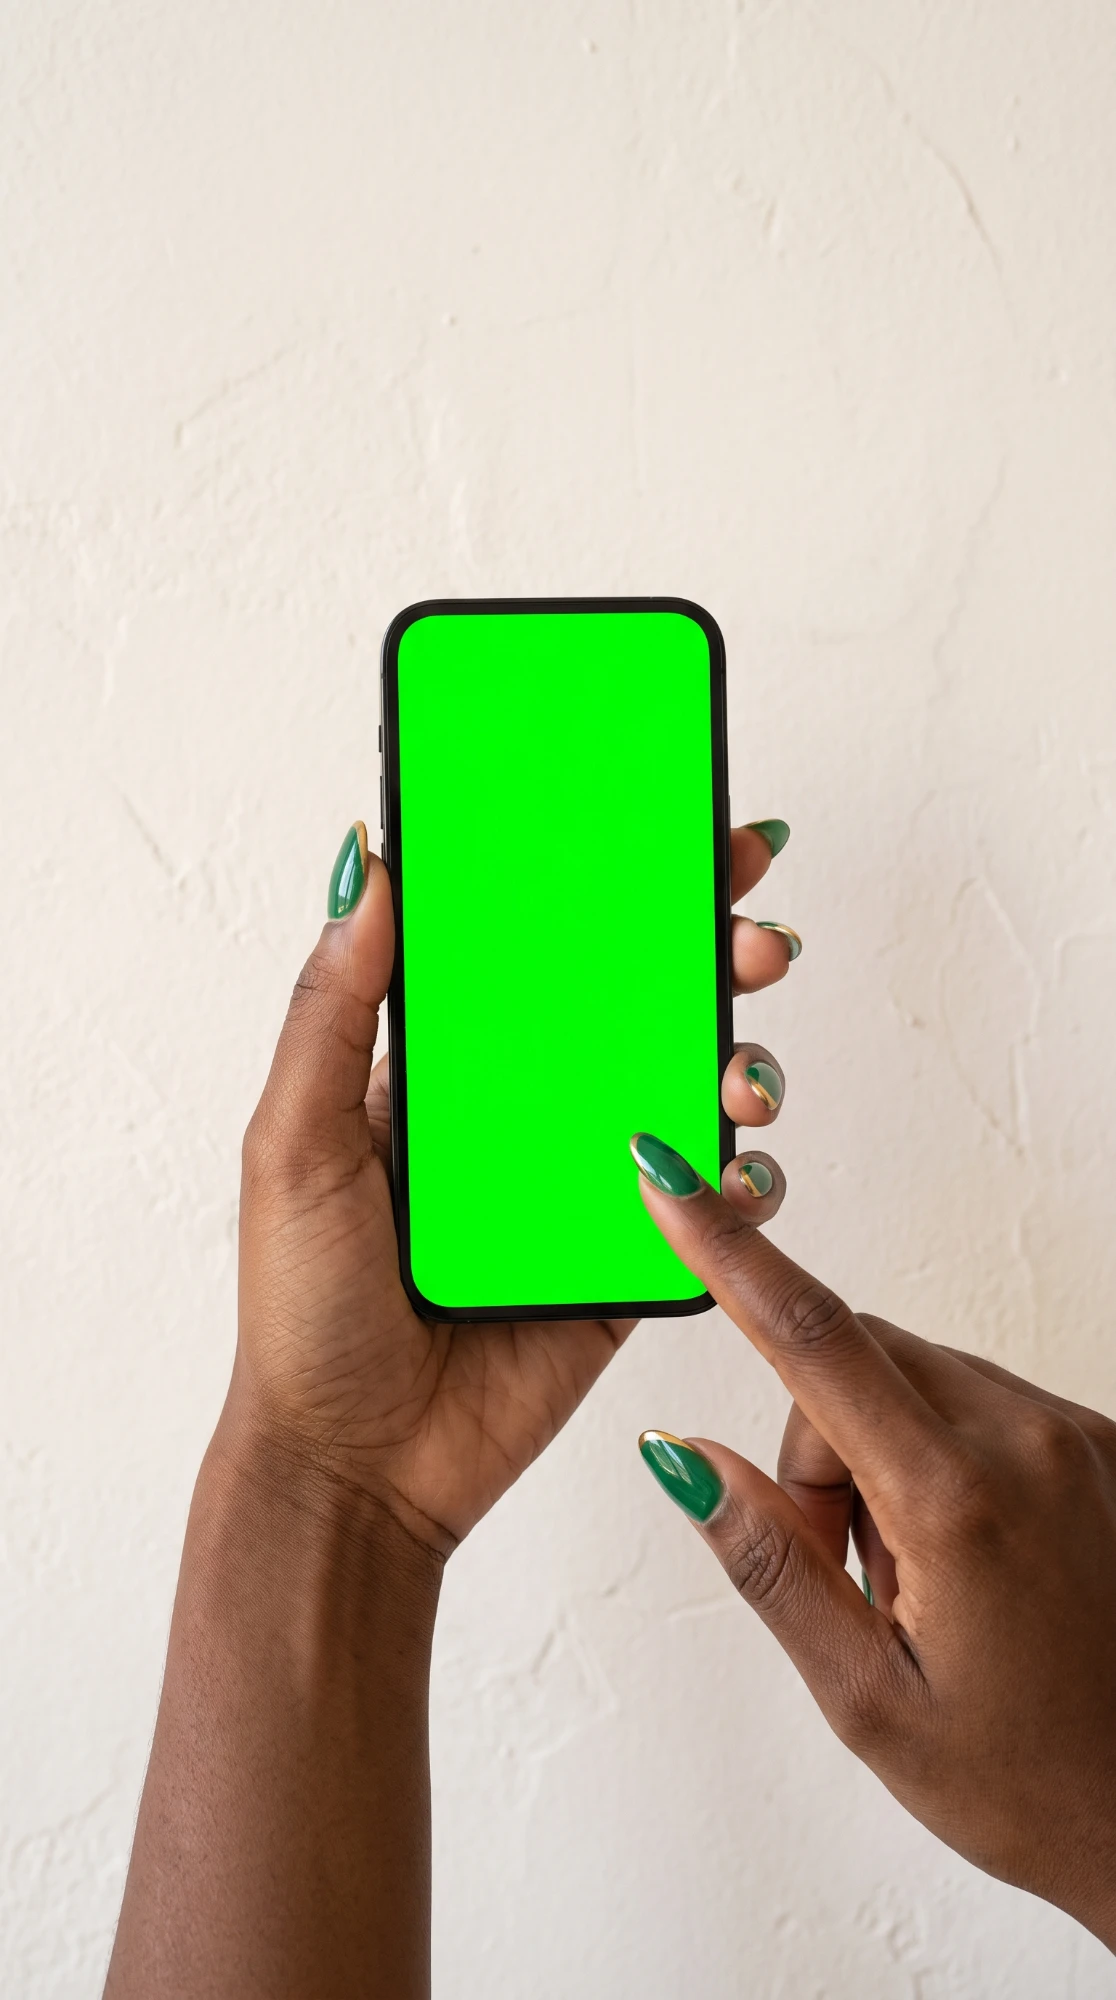
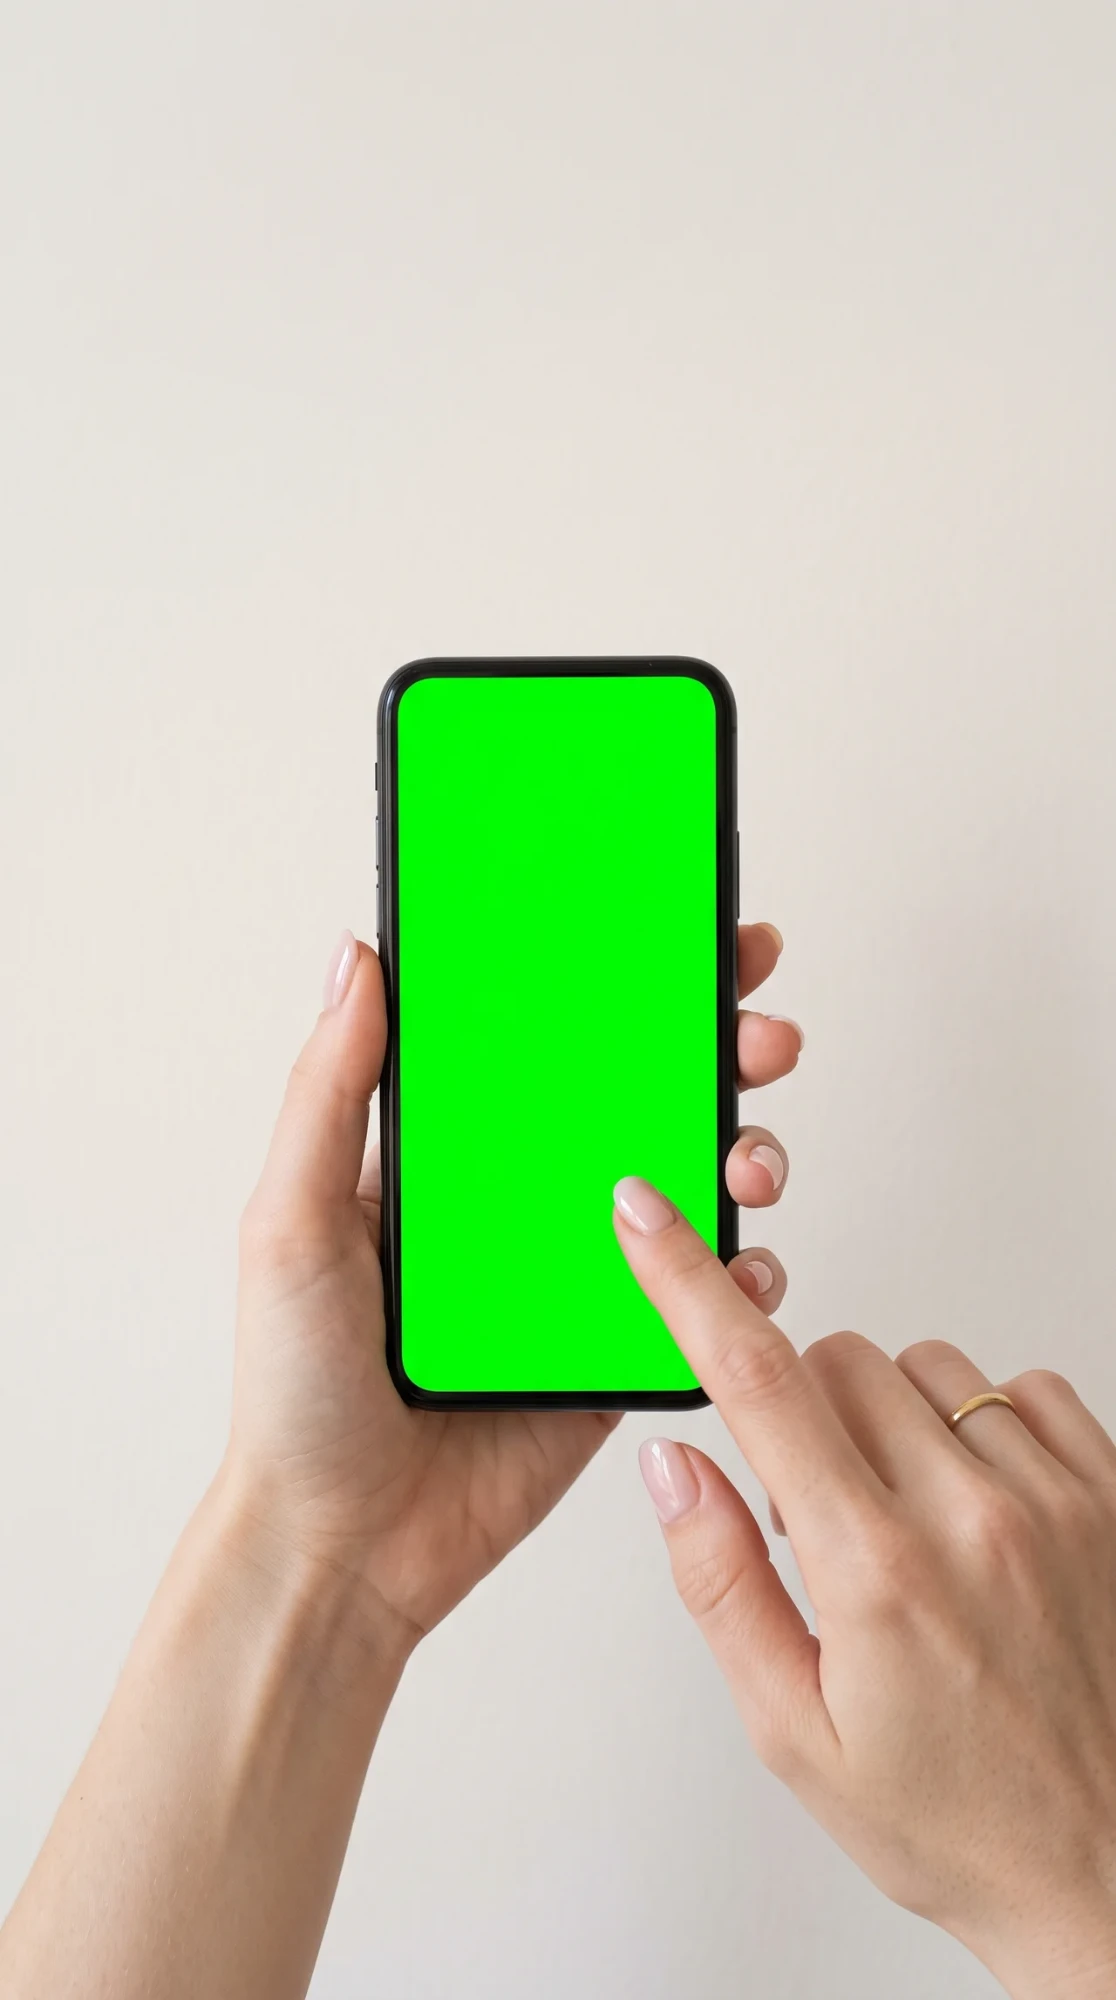
Swap fair-skin hand photos into App Store slides 3 and 5
Cut-out now uses a stricter wall test for fair skin, a RANSAC screen fit
for tilted and notched phones, and a luma matte at the screen edge. The
hands' drop shadow no longer falls on the screen.

Claude-Session: https://claude.ai/code/session_01XofwgYCTM7RBmbxY2V7k3B

Changed region(s): [[0.0, 0.279, 1.0, 1.0]]

diff --git a/video/appstore-iphone/stills/index.html b/video/appstore-iphone/stills/index.html
@@ -137,6 +137,7 @@ h1 .two::before{content:"";position:absolute;left:-6px;right:-8px;bottom:.05em;h
    onto the keyed screen with a homography so it sits at the photo's own angle ── */
 .pht{position:absolute;left:0;top:0;transform-origin:0 0}
 .pht > img.cutimg{position:absolute;left:0;top:0;width:1116px;height:2000px;filter:drop-shadow(0 34px 40px rgba(30,30,60,.22)) drop-shadow(0 8px 12px rgba(30,30,60,.12))}
+.pht > img.cutimg.flat{filter:none}
 .pscr{position:absolute;left:0;top:0;transform-origin:0 0;overflow:hidden;background:#fff}
 .pscr .in{position:absolute;inset:0;filter:blur(.5px) contrast(.95) brightness(.97) saturate(.95)}
 .pscr .st{height:44px;position:relative;background:#fff}
@@ -367,11 +368,15 @@ function photoSlide(n) {
   const hq = (Math.hypot(Q.bl[0]-Q.tl[0], Q.bl[1]-Q.tl[1]) + Math.hypot(Q.br[0]-Q.tr[0], Q.br[1]-Q.tr[1])) / 2;
   const CW = 400, CH = Math.round(CW * hq / wq);
   const M = homography(CW, CH, q);
+  /* the hands' drop shadow lifts them off the ground but must not fall on the screen: seen through a finger's soft
+     edge it is a dark dotted rim. So the shadow layer has the screen cut out of it, and a plain copy sits on top */
+  const hole = `path(evenodd,'M0 0H1116V2000H0Z M${q.map(p => p[0] + ' ' + p[1]).join(' L')}Z')`;
   return `<div class="pht" style="transform:translate(${ox.toFixed(1)}px,${oy.toFixed(1)}px) scale(${s.toFixed(4)})">
     <div class="pscr" style="width:${CW}px;height:${CH}px;transform:${M}"><div class="in">
       <div class="st"><div class="t">9:41</div><div class="r"><b style="height:6px"></b><b style="height:9px"></b><b style="height:12px"></b><b style="height:15px"></b><b class="bat"></b></div></div>
       <img src="${A(P.app)}" alt=""><div class="hm"></div></div><div class="lt"></div></div>
-    <img class="cutimg" src="assets/photo-${P.name}-cut.png" alt=""></div>`;
+    <img class="cutimg" src="assets/photo-${P.name}-cut.png" alt="" style="clip-path:${hole}">
+    <img class="cutimg flat" src="assets/photo-${P.name}-cut.png" alt=""></div>`;
 }
 const [n, v, m] = (location.hash.slice(1) || '1').split('-').map(Number);
 const fr = document.getElementById('f');

diff --git a/video/appstore-iphone/stills/assets/photo-quads.js b/video/appstore-iphone/stills/assets/photo-quads.js
@@ -1,1 +1,1 @@
-window.PHOTOQ = {"links": {"w": 1116, "h": 2000, "quad": {"tl": [385.2, 748.6], "tr": [733.0, 749.2], "br": [733.0, 1542.3], "bl": [384.7, 1540.3]}}, "pos": {"w": 1116, "h": 2000, "quad": {"tl": [396.9, 615.2], "tr": [708.1, 612.9], "br": [720.7, 1298.3], "bl": [411.8, 1307.1]}}, "reports": {"w": 1116, "h": 2000, "quad": {"tl": [429.4, 542.5], "tr": [816.6, 574.1], "br": [720.1, 1442.3], "bl": [335.8, 1400.2]}}};
+window.PHOTOQ = {"links": {"w": 1116, "h": 2000, "quad": {"tl": [385.4, 748.5], "tr": [733.0, 749.2], "br": [733.0, 1542.1], "bl": [384.2, 1540.5]}}, "pos": {"w": 1116, "h": 2000, "quad": {"tl": [397.8, 678.5], "tr": [714.6, 677.0], "br": [716.1, 1390.0], "bl": [402.5, 1390.0]}}, "reports": {"w": 1116, "h": 2000, "quad": {"tl": [366.9, 551.4], "tr": [716.5, 512.9], "br": [834.1, 1338.6], "bl": [491.6, 1399.6]}}};

diff --git a/video/appstore-iphone/stills/cut-photo.py b/video/appstore-iphone/stills/cut-photo.py
@@ -16,24 +16,28 @@ G = (g > 170) & (r < 130) & (b < 130) & (gx > 80)
 ys, xs = np.where(G)
 x0, x1, y0, y1 = xs.min(), xs.max(), ys.min(), ys.max()
 
-def fit(pts):                      # least squares, then drop points more than 4px off and refit (fingers, corners)
-    p = np.array(pts, float)
-    for _ in range(3):
-        A = np.vstack([p[:,0], np.ones(len(p))]).T
-        m, c = np.linalg.lstsq(A, p[:,1], rcond=None)[0]
-        res = np.abs(p[:,1] - (m * p[:,0] + c)); keep = res < 4
-        if keep.all() or keep.sum() < 20: break
-        p = p[keep]
-    return m, c
-mid = lambda lo, hi: range(int(lo + (hi - lo) * .2), int(lo + (hi - lo) * .8))
-# a finger or thumb over the screen can only pull an edge inward, so keep the outermost half of each edge's samples
+def fit(pts):                      # RANSAC: the line through the most samples within 2px, then least squares on those
+    p = np.array(pts, float); rng = np.random.default_rng(7); best = None
+    for _ in range(600):              # (a thumb, a fingertip or a notch is a minority off the line, never on it)
+        i, j = rng.choice(len(p), 2, replace=False)
+        if p[i,0] == p[j,0]: continue
+        m = (p[j,1] - p[i,1]) / (p[j,0] - p[i,0]); c = p[i,1] - m * p[i,0]
+        inl = np.abs(p[:,1] - (m * p[:,0] + c)) < 2
+        if best is None or inl.sum() > best.sum(): best = inl
+    q = p[best]; A = np.vstack([q[:,0], np.ones(len(q))]).T
+    return tuple(np.linalg.lstsq(A, q[:,1], rcond=None)[0])
+# sample each edge along its own span: rows between the top and bottom of the green for the sides, and for the top
+# and bottom the columns of the green's first and last 40 rows, so a tilted phone's side is never read as its top
+mid = lambda lo, hi: range(int(lo + (hi - lo) * .08), int(lo + (hi - lo) * .92))
+# a finger or thumb over the screen can only pull an edge inward, so keep the outermost samples of each edge
 def outer(pts, keep_low):
-    v = np.array([q[1] for q in pts]); cut = np.percentile(v, 55 if keep_low else 45)
+    v = np.array([q[1] for q in pts]); cut = np.percentile(v, 60 if keep_low else 40)
     return [q for q in pts if (q[1] <= cut if keep_low else q[1] >= cut)]
+tx = np.where(G[y0:y0+40].any(0))[0]; bx = np.where(G[y1-40:y1+1].any(0))[0]
 left  = fit(outer([(y, np.where(G[y])[0].min()) for y in mid(y0, y1) if G[y].any()], True))        # x = m*y + c
 right = fit(outer([(y, np.where(G[y])[0].max()) for y in mid(y0, y1) if G[y].any()], False))
-top   = fit(outer([(x, np.where(G[:,x])[0].min()) for x in mid(x0, x1) if G[:,x].any()], True))    # y = m*x + c
-bot   = fit(outer([(x, np.where(G[:,x])[0].max()) for x in mid(x0, x1) if G[:,x].any()], False))
+top   = fit(outer([(x, np.where(G[:,x])[0].min()) for x in mid(tx.min(), tx.max()) if G[:,x].any()], True))    # y = m*x + c
+bot   = fit(outer([(x, np.where(G[:,x])[0].max()) for x in mid(bx.min(), bx.max()) if G[:,x].any()], False))
 def meet(v, h):                    # v: x = mv*y + cv ; h: y = mh*x + ch
     mv, cv = v; mh, ch = h; y = (mh * cv + ch) / (1 - mh * mv); return [round(mv * y + cv, 1), round(y, 1)]
 quad = { 'tl': meet(left, top), 'tr': meet(right, top), 'br': meet(right, bot), 'bl': meet(left, bot) }
@@ -41,12 +45,34 @@ quad = { 'tl': meet(left, top), 'tr': meet(right, top), 'br': meet(right, bot), 
 # ── the wall: flood in from the frame edge over pale, warm, unsaturated pixels ──
 mx, mn = a.max(2), a.min(2); sat = (mx - mn) / np.maximum(mx, 1)
 wallish = (mx > 140) & (sat < 0.30) & (b <= g + 4) & (r >= g - 3)   # includes the wall in the hand's shadow
+# fair skin passes that test (sat .18–.28), so on the fair-skin photos the wall is held to its own colour: nearly
+# grey (sat ≤ .12, wall .03–.11) and only faintly warm (r − b < 28; wall 8–22, skin 40+)
+if name in ('pos', 'reports'):
+    wallish = (mx > 120) & (sat < 0.12) & (r - b < 28) & (b <= g + 4) & (r >= g - 3)
 # per photo: the deeper shadow the hand throws on the wall, a looser test only where it falls
-# (fingers there measure mx ≤ 115, sat ≥ .43; the shadowed wall mx 150–171, sat .28–.35)
-SHADE = { 'reports': [(1000, 1700, 760, W), (1440, 1800, 600, W)] }
+# per photo: the deeper shadow the hand throws on the wall, a looser test only where it falls. On the fair-skin
+# reports photo the shadow is the skin's own hue (r:g:b 1 : .88 : .77 against the skin's 1 : .87 : .79), so it is
+# told apart by its softness: the flood may not cross a sharp step in brightness, which the hand's edge always is
+SHADE = { 'reports': [(560, 880, 740, W), (880, 1300, 935, W), (1300, 2000, 740, W), (1360, 2000, 560, 740)] }
+# (the three fingertips, x 740–935 between y 880 and 1300, are left out: their undersides are as soft as the shadow.
+# There the fingers are told apart by colour instead: the skin is pinker, r − g 58–66 even in its own shade, where
+# the shadow between them is r − g 22–31)
+TIPS = { 'reports': [(880, 1300, 740, 935)] }
 for ya, yb, xa, xb in SHADE.get(name, []):
     shade = np.zeros((H, W), bool); shade[ya:yb, xa:xb] = True
-    wallish |= shade & (mx > 125) & (sat < 0.40) & (b <= g + 4) & (r >= g - 3)
+    Lm = a.mean(2); Ls = (Lm[:-2,1:-1] + Lm[2:,1:-1] + Lm[1:-1,:-2] + Lm[1:-1,2:] + 4 * Lm[1:-1,1:-1]) / 8
+    grad = np.zeros((H, W)); gy_ = np.abs(Ls[2:,1:-1] - Ls[:-2,1:-1]); gx_ = np.abs(Ls[1:-1,2:] - Ls[1:-1,:-2])
+    grad[2:-2,2:-2] = np.maximum(gy_, gx_) / 2
+    wallish |= shade & (mx > 120) & (sat < 0.34) & (b <= g + 4) & (r >= g - 3) & (grad < 4)
+# and the darkest of it, tucked under the phone, where it is too dark to be
+# told apart by softness: one small box that holds only shadow (the palm beside them measures sat ≥ .47)
+for ya, yb, xa, xb in TIPS.get(name, []):
+    tips = np.zeros((H, W), bool); tips[ya:yb, xa:xb] = True
+    wallish |= tips & (mx > 110) & (mx < 205) & (r - g < 42) & (g - b > 10) & (b <= g + 4)
+DEEP = { 'reports': [(1385, 1470, 606, 760, .40, 160)] }
+for ya, yb, xa, xb, s_, m_ in DEEP.get(name, []):
+    deep = np.zeros((H, W), bool); deep[ya:yb, xa:xb] = True
+    wallish |= deep & (mx > 100) & (mx < m_) & (sat < s_) & (b <= g + 4)
 def flood(seed, allow):
     m = seed & allow
     for _ in range(8000):
@@ -65,15 +91,30 @@ def box(m, k):
     m = m.astype(float); p = k // 2
     c = np.cumsum(np.pad(m, ((p+1, p), (0, 0)), mode='edge'), 0); m = (c[k:] - c[:-k]) / k
     c = np.cumsum(np.pad(m, ((0, 0), (p+1, p)), mode='edge'), 1); return (c[:, k:] - c[:, :-k]) / k
-alpha = np.clip((box(subj, 3) - 0.5) * 2, 0, 1); alpha = box(alpha, 3)
+# a 7px mean cut at half rounds the stair-steps the flood leaves along a soft shadow into a smooth contour
+alpha = np.clip((box(subj, 7) - 0.5) * 3 + 0.5, 0, 1); alpha = box(alpha, 3)
 
-# key the screen, softly at its edge, and pull the green out of the bezel's rim (dark, low-blue pixels near the key)
-key = np.clip((g - 150) / 40, 0, 1) * np.clip((gx - 60) / 40, 0, 1)
-near = box(G, 9) > 0
-key = np.where(near, key, 0)
-alpha = alpha * (1 - key)
-rim = near & (gx > 8) & (b < r + 12)          # spill (skin or bezel mixed with green) has little blue; the emerald nails have plenty
-g2 = np.where(rim, np.minimum(g, (r + b) / 2 + 6), g)
+# key the screen with a luma matte. The webp stores colour at half resolution, so at a finger's edge over the green
+# the colour comes in 2px blocks (a green tint and a stair-stepped key) while brightness is sharp. So, in a 3px
+# band around the green: take each pixel's colour from the clean finger, nail or bezel beside it (bled outward a
+# pixel at a time), and its opacity from where its brightness sits between the screen's and that colour's
+Y = .299 * r + .587 * g + .114 * b
+Yg = np.median(Y[G])
+band = (box(G, 7) > 0) & ~(box(G, 5) > .999)       # within 3px of the green, but not 2px deep inside it
+known = (~(box(G, 7) > 0)).astype(float)
+for _ in range(10):
+    n = box(known, 3); fill = band & (n > 0) & (known == 0)
+    if not fill.any(): break
+    r, g, b = [np.where(fill, box(c * known, 3) / np.maximum(n, 1e-6), c) for c in (r, g, b)]
+    known = np.where(fill, 1., known)
+Yf = .299 * r + .587 * g + .114 * b
+d_ = Yf - Yg
+luma = np.clip((Y - Yg) / np.where(np.abs(d_) < 1, 1, d_), 0, 1)
+gxs = np.clip(1 - gx / (np.median(gx[G]) or 1), 0, 1)   # where the finger's brightness is too close to the screen's
+screen_a = np.where(np.abs(d_) > 25, luma, gxs)
+screen_a = np.where(G & ~band, 0, np.where(band, screen_a, 1))
+alpha = alpha * screen_a
+g2 = g
 
 out = np.dstack([r, g2, b, alpha * 255]).clip(0, 255).astype(np.uint8)
 subprocess.run(['ffmpeg','-loglevel','error','-y','-f','rawvideo','-pix_fmt','rgba','-s',f'{W}x{H}','-i','-',

diff --git a/video/appstore-iphone/stills/HIGGSFIELD-PROMPT.md b/video/appstore-iphone/stills/HIGGSFIELD-PROMPT.md
@@ -117,3 +117,7 @@ fine gold chain bracelet on the wrist, only just in frame.
 from either side with both hands, both thumbs resting on the lower part of the screen as if typing, only the thumb
 tips overlapping the screen. Short rounded nails with a classic French manicure, soft sheer pink base and fine white
 tips. One slim polished silver band on the ring finger of the left hand.
+
+**Used (23 Sep 2026):** A → slide 3 (`photo-pos-src.webp`, nude nails, gold band) and B → slide 5
+(`photo-reports-src.webp`, cherry nails, gold chain). Slide 6 keeps the v1 typing photo with the emerald nails, as
+Faisal chose. `cut-photo.py` holds the fair-skin wall test, the reports shadow boxes and the luma matte at the screen edge.
